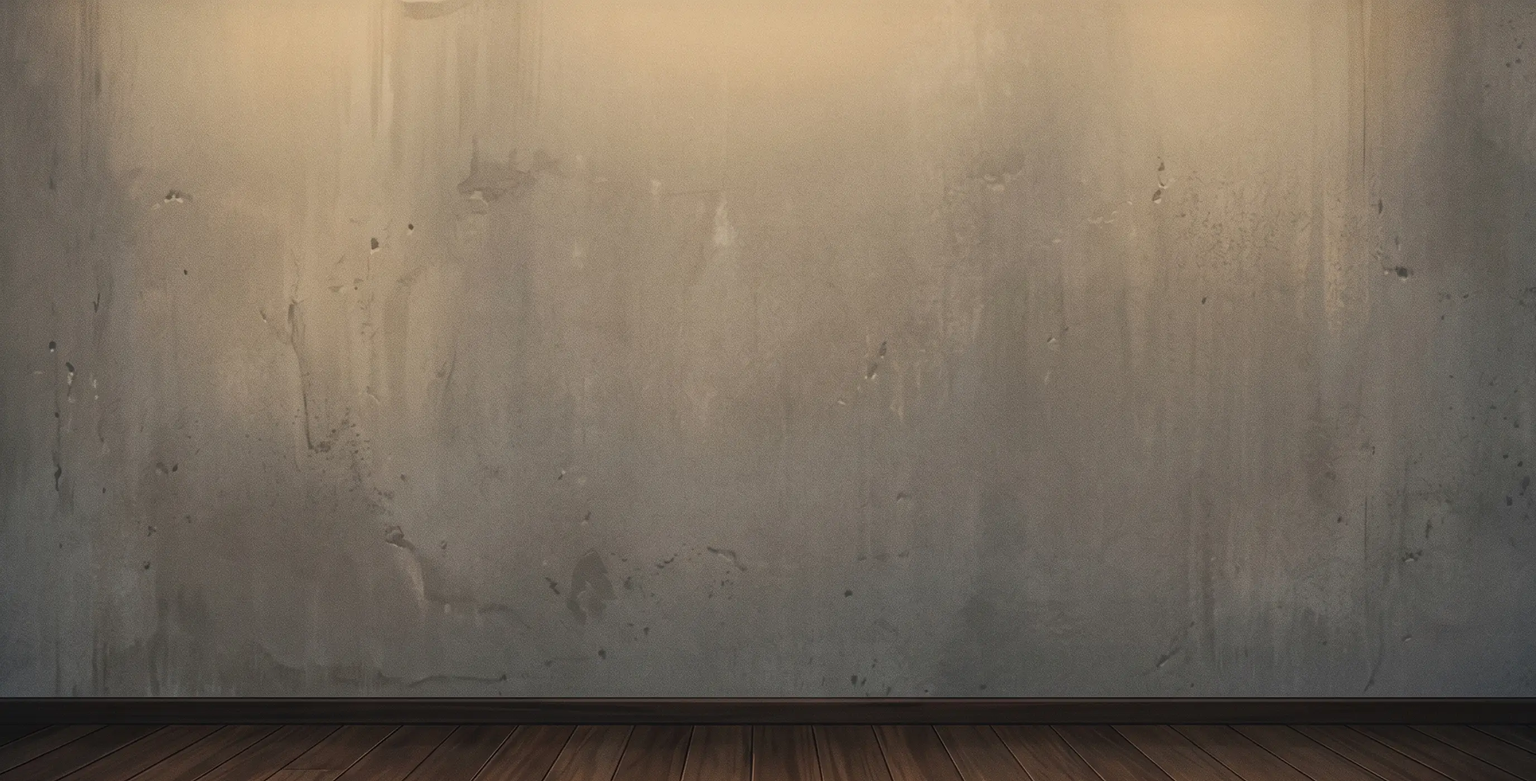
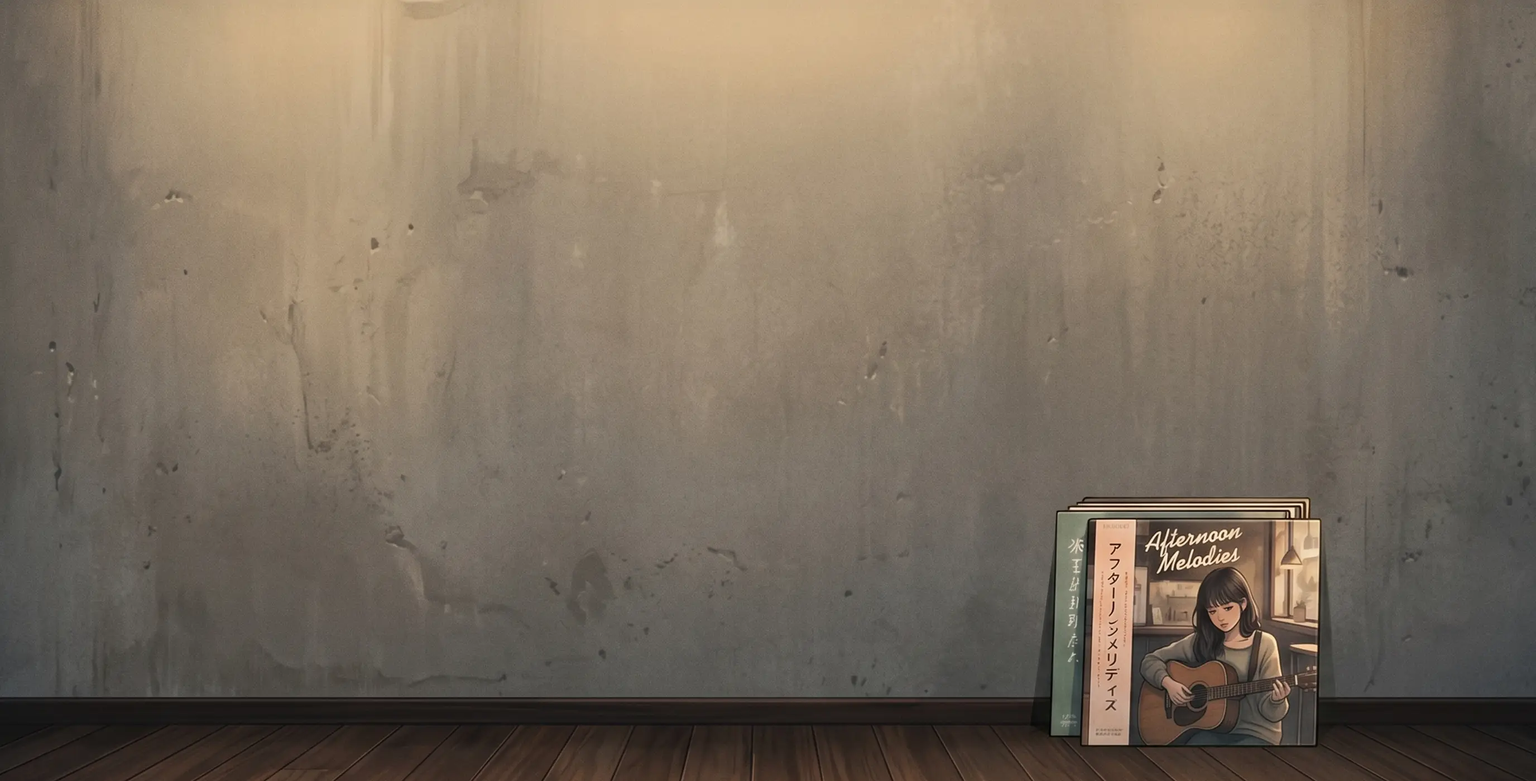
mydig: drop the public/private toggle, retire /my-preview
Mydig is now public by default, always. The per-user
mydig_public gate is gone — the wall is empty-by-design until
an owner curates it, so "private placeholder" was solving a
problem that doesn't exist. Snapshots keep their own is_public
flag for the cases where the owner wants to archive a wall
without surfacing it.

- Server: the privacy branch in GET /api/mydig/:username, the
  mydig_public filter on /api/mydig/:username/snapshots, the
  combined gate on the snapshot detail endpoint, and the
  mydig_public clause on /api/home/snapshots all removed. The
  `users.mydig_public` column stays in the schema (dropping it
  would mean a table rebuild on every running DB) and is
  marked vestigial in the migrateTable comment.
- Auth payloads (/api/auth/status, /api/me/profile,
  /api/users/:id/public) stop emitting mydigPublic; the
  AppUser type drops the field.
- Client: the "under construction" private-mode card is gone
  from MyDig.tsx, and the MyDigData type no longer carries
  isPublic. Auth user type loses mydigPublic too.

Retired /my-preview. Route + MyDigPreview.tsx were a design
sandbox while the storefront visuals were settling; the live
page has carried the same scene for a while now so the preview
route just duplicates it.

Changed region(s): [[0.6562, 0.6143, 0.875, 0.9829]]

diff --git a/server/src/routes/mydig.ts b/server/src/routes/mydig.ts
@@ -24,7 +24,6 @@ interface ResolvedUser {
   email: string;
   avatar_url: string | null;
   custom_avatar_url: string | null;
-  mydig_public: number | null;
   vinyl_wall_theme: string | null;
   vinyl_wall_description: string | null;
 }
@@ -32,7 +31,7 @@ interface ResolvedUser {
 function resolveUserByUsername(username: string): ResolvedUser | null {
   return queryGet(
     `SELECT id, username, display_name, name, email, avatar_url,
-            custom_avatar_url, mydig_public, vinyl_wall_theme,
+            custom_avatar_url, vinyl_wall_theme,
             vinyl_wall_description
      FROM users
      WHERE LOWER(username) = LOWER(?)`,
@@ -59,25 +58,6 @@ router.get('/mydig/:username', (req, res, next) => {
 
   const viewer = req.user as AppUser | undefined;
   const isOwner = !!viewer && viewer.id === user.id;
-  const isPublic = user.mydig_public === null || user.mydig_public === 1;
-
-  // Privacy gate — non-owners on a private page get a minimal
-  // identity payload so the client can render the "under
-  // construction" placeholder without crashing.
-  if (!isPublic && !isOwner) {
-    return res.json({
-      user: {
-        username: user.username,
-        displayName: user.display_name || user.name,
-        avatarUrl: user.custom_avatar_url || user.avatar_url,
-        isOwner: false,
-      },
-      isPublic: false,
-      vinylWall: [],
-      shelf: [],
-      crates: [],
-    });
-  }
 
   // Vinyl Wall — items by position. Server returns exactly what's
   // saved (no padding to 15); the client fills blanks when
@@ -186,7 +166,6 @@ router.get('/mydig/:username', (req, res, next) => {
       avatarUrl: user.custom_avatar_url || user.avatar_url,
       isOwner,
     },
-    isPublic,
     vinylWallTheme: user.vinyl_wall_theme,
     vinylWallDescription: user.vinyl_wall_description,
     vinylWall: wallRows.map((r: any) => {
@@ -888,12 +867,6 @@ router.get('/mydig/:username/snapshots', (req, res) => {
 
   const viewer = req.user as AppUser | undefined;
   const isOwner = !!viewer && viewer.id === user.id;
-  const mydigPublic = user.mydig_public === null || user.mydig_public === 1;
-  if (!isOwner && !mydigPublic) {
-    // Whole page is private — don't reveal that there are any
-    // snapshots either.
-    return res.json({ snapshots: [] });
-  }
 
   const whereVis = isOwner ? '' : ' AND is_public = 1';
   const rows = queryAll(
@@ -910,8 +883,9 @@ router.get('/mydig/:username/snapshots', (req, res) => {
 });
 
 // GET /api/mydig/:username/snapshots/:slug — full snapshot
-// detail with joined album metadata. Visitor access gated by
-// both mydig_public and is_public.
+// detail with joined album metadata. Visitor access gated only
+// by the snapshot's own is_public flag now that the per-user
+// mydig_public gate is gone.
 router.get('/mydig/:username/snapshots/:slug', (req, res) => {
   const raw = String(req.params.username || '').trim();
   const slug = String(req.params.slug || '').trim();
@@ -920,7 +894,6 @@ router.get('/mydig/:username/snapshots/:slug', (req, res) => {
 
   const viewer = req.user as AppUser | undefined;
   const isOwner = !!viewer && viewer.id === user.id;
-  const mydigPublic = user.mydig_public === null || user.mydig_public === 1;
 
   const snap = queryGet(
     `SELECT id, slug, name, description, is_public AS isPublic, created_at AS createdAt
@@ -928,7 +901,7 @@ router.get('/mydig/:username/snapshots/:slug', (req, res) => {
     [user.id, slug]
   );
   if (!snap) return res.status(404).json({ error: '스냅샷을 찾을 수 없어요.' });
-  if (!isOwner && (!mydigPublic || snap.isPublic !== 1)) {
+  if (!isOwner && snap.isPublic !== 1) {
     return res.status(404).json({ error: '스냅샷을 찾을 수 없어요.' });
   }
 

diff --git a/client/src/App.tsx b/client/src/App.tsx
@@ -13,7 +13,6 @@ const Album = lazy(() => import('./pages/Album'));
 const Admin = lazy(() => import('./pages/Admin'));
 const Profile = lazy(() => import('./pages/Profile'));
 const MyDig = lazy(() => import('./pages/MyDig'));
-const MyDigPreview = lazy(() => import('./pages/MyDigPreview'));
 const ApiConsole = lazy(() => import('./pages/ApiConsole'));
 const LlmCompare = lazy(() => import('./pages/LlmCompare'));
 
@@ -164,8 +163,6 @@ export default function App() {
   const location = useLocation();
   // Routes under `/my/:username` (including snapshots) get the
   // painted wall backdrop across the full page, nav to footer.
-  // `/my-preview` is a separate design-iteration route that does
-  // not share the backdrop.
   const isMydig = location.pathname.startsWith('/my/');
   return (
     <AuthProvider>
@@ -293,7 +290,6 @@ export default function App() {
                   <Route path="/admin/curation" element={<Admin />} />
                   <Route path="/admin/api" element={<Admin />} />
                   <Route path="/profile" element={<Profile />} />
-                  <Route path="/my-preview" element={<MyDigPreview />} />
                   <Route path="/my/:username" element={<MyDig />} />
                   {/* Snapshot viewing is now in-page via #<slug>
                       hash on /my/:username — the separate route

diff --git a/server/src/routes/home.ts b/server/src/routes/home.ts
@@ -10,11 +10,9 @@ const router = Router();
 // have a clear place to land.
 
 // GET /api/home/snapshots — recent publicly-published wall
-// snapshots across all users, latest first. Gated on BOTH the
-// snapshot's is_public flag AND the owner's mydig_public flag —
-// an owner flipping the whole page private must suppress their
-// individually-public snapshots from the homepage surface too,
-// which matches the behavior in /api/mydig/:username/snapshots.
+// snapshots across all users, latest first. Gated on the
+// snapshot's own is_public flag. The per-user mydig_public page
+// gate was dropped when mydig went public-by-default.
 //
 // `limit` is soft-capped server-side so a malicious query can't
 // pull the whole table. The client typically asks for 3-ish.
@@ -32,7 +30,6 @@ router.get('/home/snapshots', (req, res) => {
      FROM vinyl_wall_snapshots s
      JOIN users u ON u.id = s.user_id
      WHERE s.is_public = 1
-       AND (u.mydig_public IS NULL OR u.mydig_public = 1)
        AND u.username IS NOT NULL
      ORDER BY s.created_at DESC, s.id DESC
      LIMIT ?`,

diff --git a/client/src/pages/MyDig.tsx b/client/src/pages/MyDig.tsx
@@ -91,24 +91,6 @@ export default function MyDig() {
     );
   }
 
-  // Private mode — under-construction placeholder. Preserves the
-  // shop aesthetic instead of showing a cold 403/404.
-  if (!data.isPublic) {
-    return (
-      <div className="flex-1 max-w-[1120px] mx-auto px-4 py-12">
-        <div className="rounded-2xl bg-[#12100d] border border-white/5 p-10 sm:p-16 text-center">
-          <div className="text-5xl mb-4" aria-hidden>🚧</div>
-          <h1 className="text-xl sm:text-2xl font-bold text-white mb-3">
-            {data.user.displayName || data.user.username}님의 가게가 준비 중입니다
-          </h1>
-          <p className="text-sm text-gray-500 max-w-md mx-auto leading-relaxed">
-            문 열 준비가 되면 다시 찾아주세요.
-          </p>
-        </div>
-      </div>
-    );
-  }
-
   // Snapshot mode: the wall renders that snapshot's captured
   // items (minus any whose album row has since been deleted).
   // Live mode: use the current vinyl_wall_items list.

diff --git a/server/src/routes/me.ts b/server/src/routes/me.ts
@@ -55,7 +55,6 @@ function effectiveUser(row: any) {
     customAvatarUrl: row.custom_avatar_url,
     instagramHandle: row.instagram_handle,
     mydigUsername: row.username ?? null,
-    mydigPublic: row.mydig_public === null ? true : row.mydig_public === 1,
     isAdmin: !!row.is_admin,
     createdAt: row.created_at,
   };
@@ -437,7 +436,7 @@ router.get('/users/:id/public', (req, res) => {
   const row = queryGet(
     `SELECT id, display_name, name, custom_avatar_url, avatar_url,
             instagram_handle, created_at,
-            username, mydig_public, vinyl_wall_theme
+            username, vinyl_wall_theme
      FROM users WHERE id = ?`,
     [id]
   );
@@ -480,7 +479,6 @@ router.get('/users/:id/public', (req, res) => {
   const mydig = row.username
     ? {
         username: row.username as string,
-        isPublic: row.mydig_public === null || row.mydig_public === 1,
         theme: (row.vinyl_wall_theme as string | null) || null,
         wallItemCount:
           queryGet(

diff --git a/server/src/db/schema.ts b/server/src/db/schema.ts
@@ -665,9 +665,10 @@ export function initializeDatabase(db: Database.Database): void {
     // Phase 3 mydig. `username` is the URL slug (lowercase a-z0-9_-,
     // 3-20 chars) — no UNIQUE in migrateTable (it's ALTER TABLE which
     // doesn't add constraints), so a partial unique index is added
-    // separately below. `mydig_public` is the per-user privacy
-    // master toggle; NULL/1 = public, 0 = private (renders under-
-    // construction placeholder for non-owners).
+    // separately below. `mydig_public` is vestigial: kept so the
+    // migration stays idempotent on existing DBs, but no read or
+    // write path references it any more (mydig is public by default
+    // and snapshots carry their own is_public flag).
     'username TEXT',
     'mydig_public INTEGER DEFAULT 1',
     // Free-form title for the vinyl wall — displays as the h1 on

diff --git a/client/src/types/index.ts b/client/src/types/index.ts
@@ -78,10 +78,8 @@ export interface AuthUser {
   instagramHandle?: string | null;
   // Phase 3 mydig. mydigUsername is null until the onboarding modal
   // completes; once set, the TopNav "내 가게" link routes to
-  // /my/<username> directly. mydigPublic defaults to true (rows
-  // missing the column come back as NULL → true on the server).
+  // /my/<username> directly.
   mydigUsername?: string | null;
-  mydigPublic?: boolean;
   isAdmin: boolean;
 }
 

diff --git a/server/src/routes/auth.ts b/server/src/routes/auth.ts
@@ -45,7 +45,6 @@ router.get('/me', (req, res) => {
       customAvatarUrl: user.custom_avatar_url,
       instagramHandle: user.instagram_handle,
       mydigUsername: user.username ?? null,
-      mydigPublic: user.mydig_public === null ? true : user.mydig_public === 1,
       isAdmin: !!user.is_admin,
     },
   });

diff --git a/server/src/auth/passport.ts b/server/src/auth/passport.ts
@@ -18,7 +18,6 @@ export interface AppUser {
   // Phase 3 mydig. `username` is the URL slug (3-20 lowercase chars) —
   // NULL until the user claims one via the onboarding modal.
   username: string | null;
-  mydig_public: number | null;
   created_at: string | null;
 }
 

diff --git a/client/src/hooks/useMyDig.ts b/client/src/hooks/useMyDig.ts
@@ -67,7 +67,6 @@ export interface MyDigCrate {
 
 export interface MyDigData {
   user: MyDigUser;
-  isPublic: boolean;
   vinylWallTheme: string | null;
   vinylWallDescription: string | null;
   vinylWall: MyDigWallItem[];
